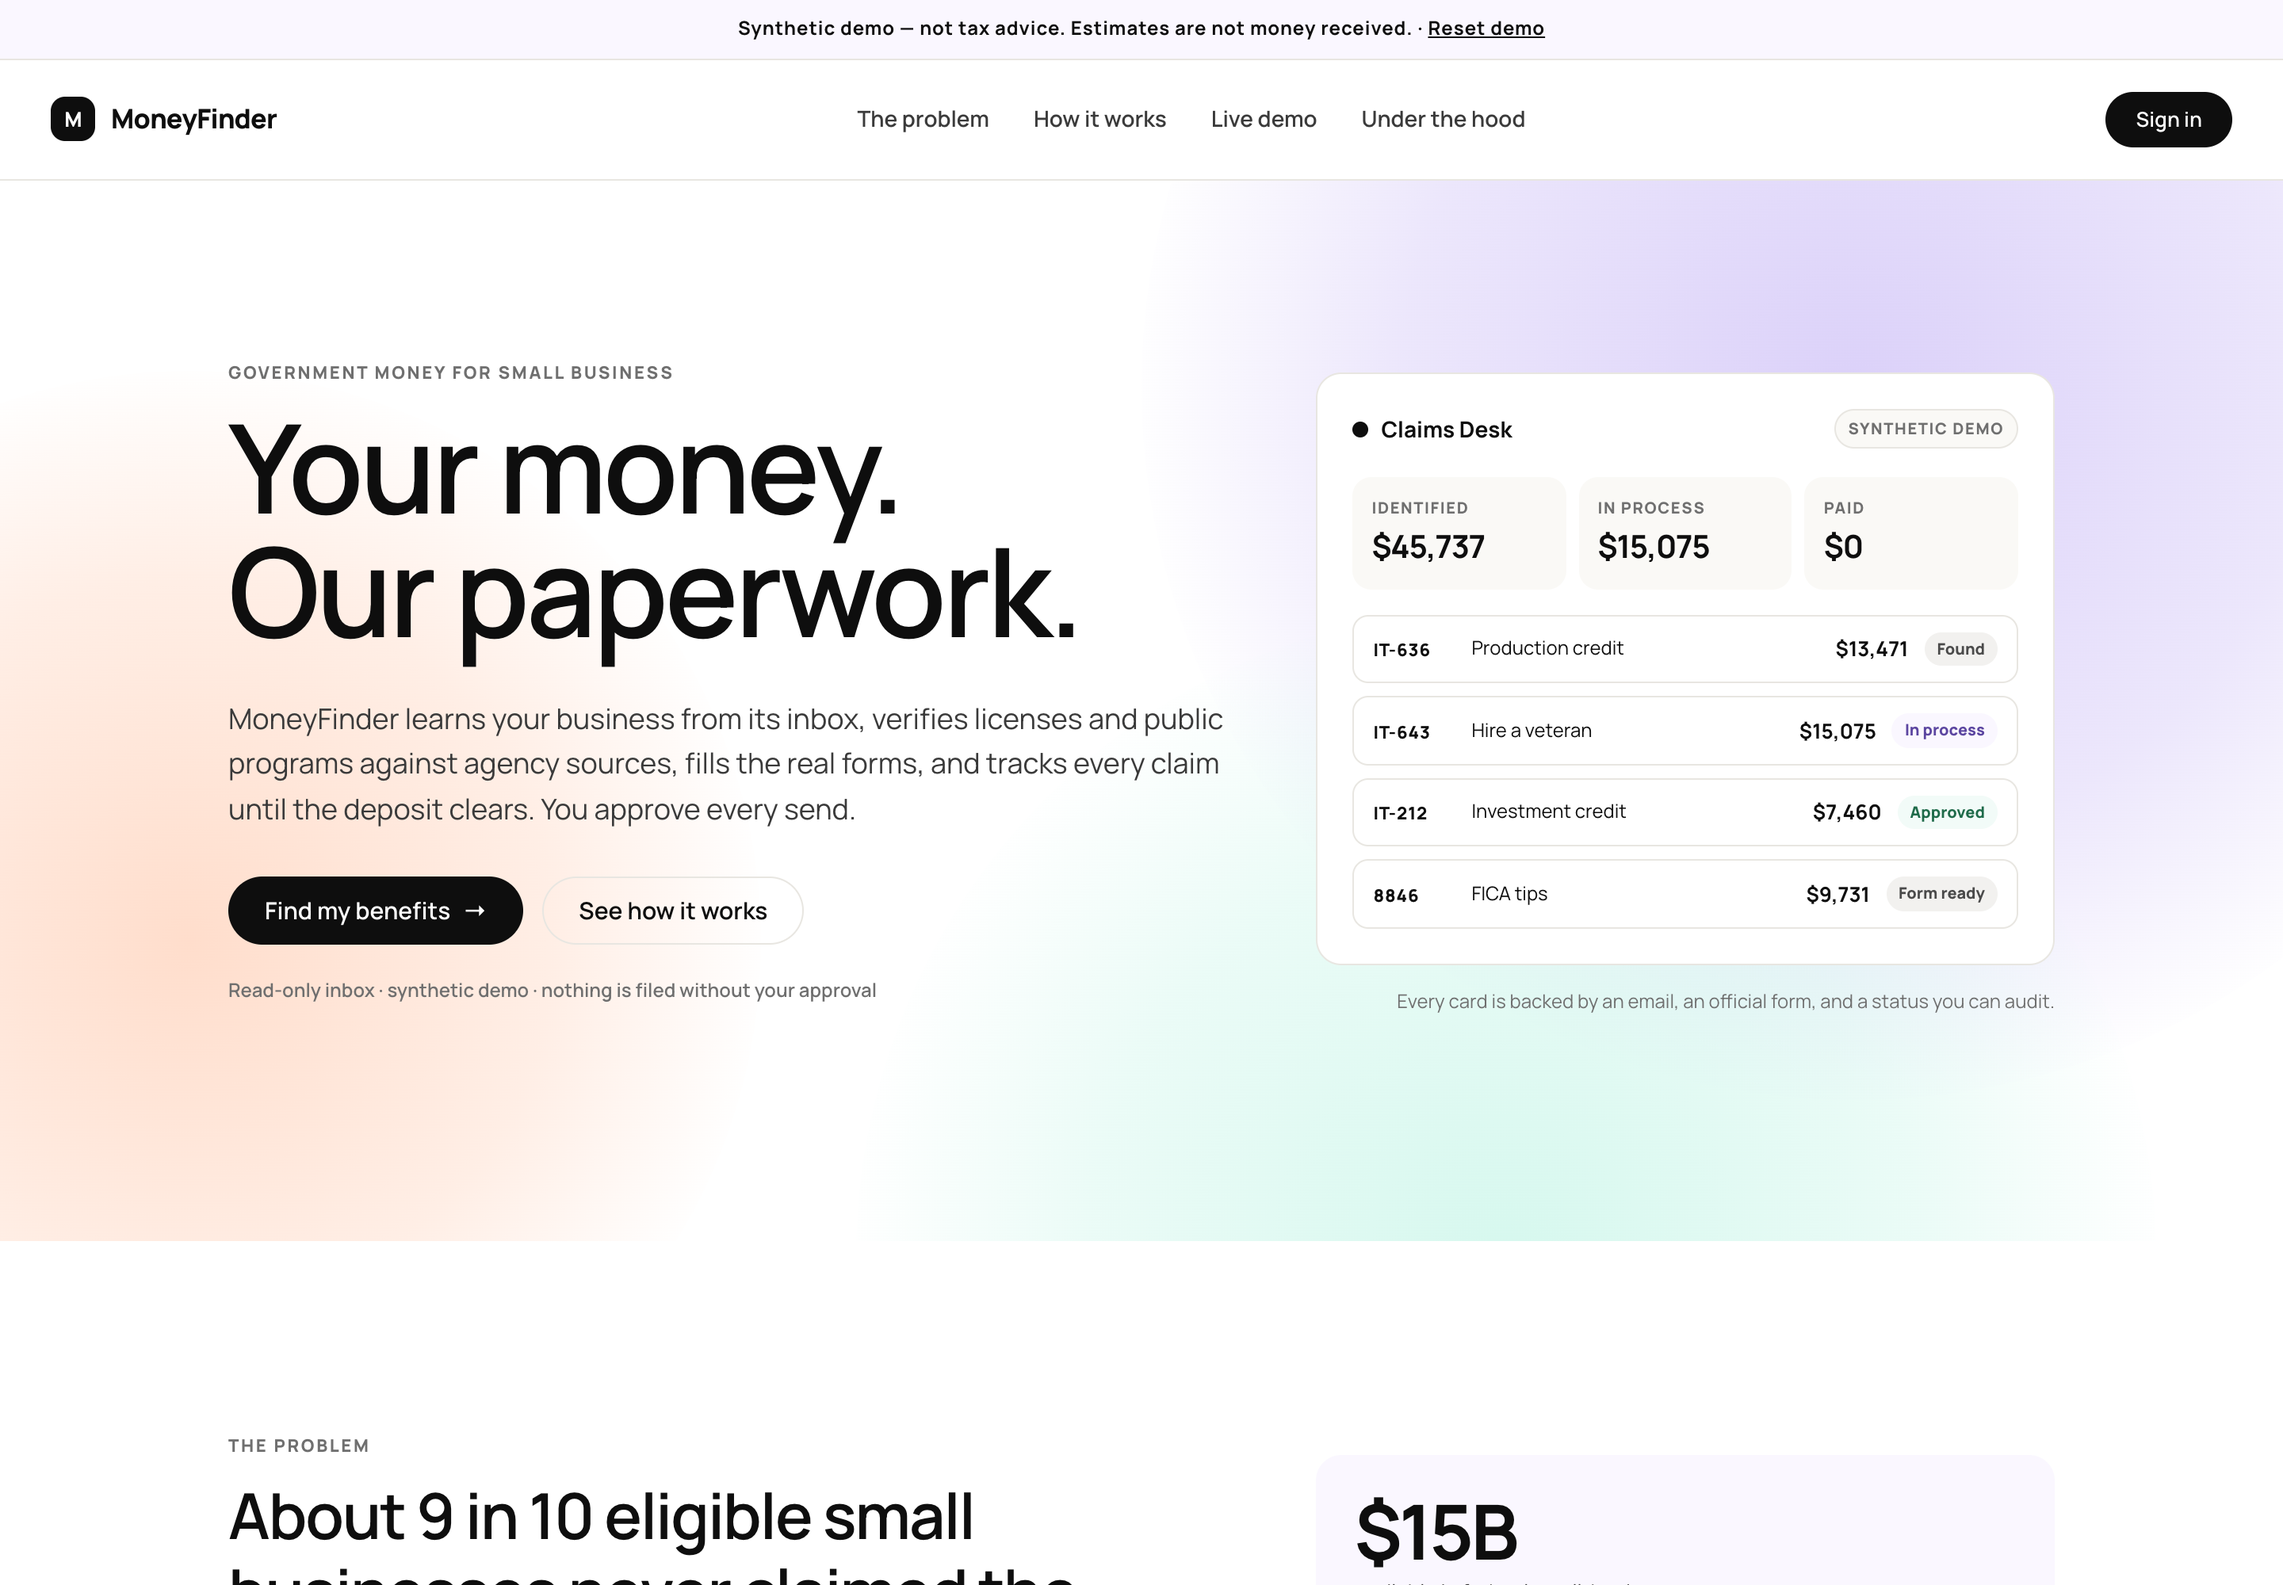
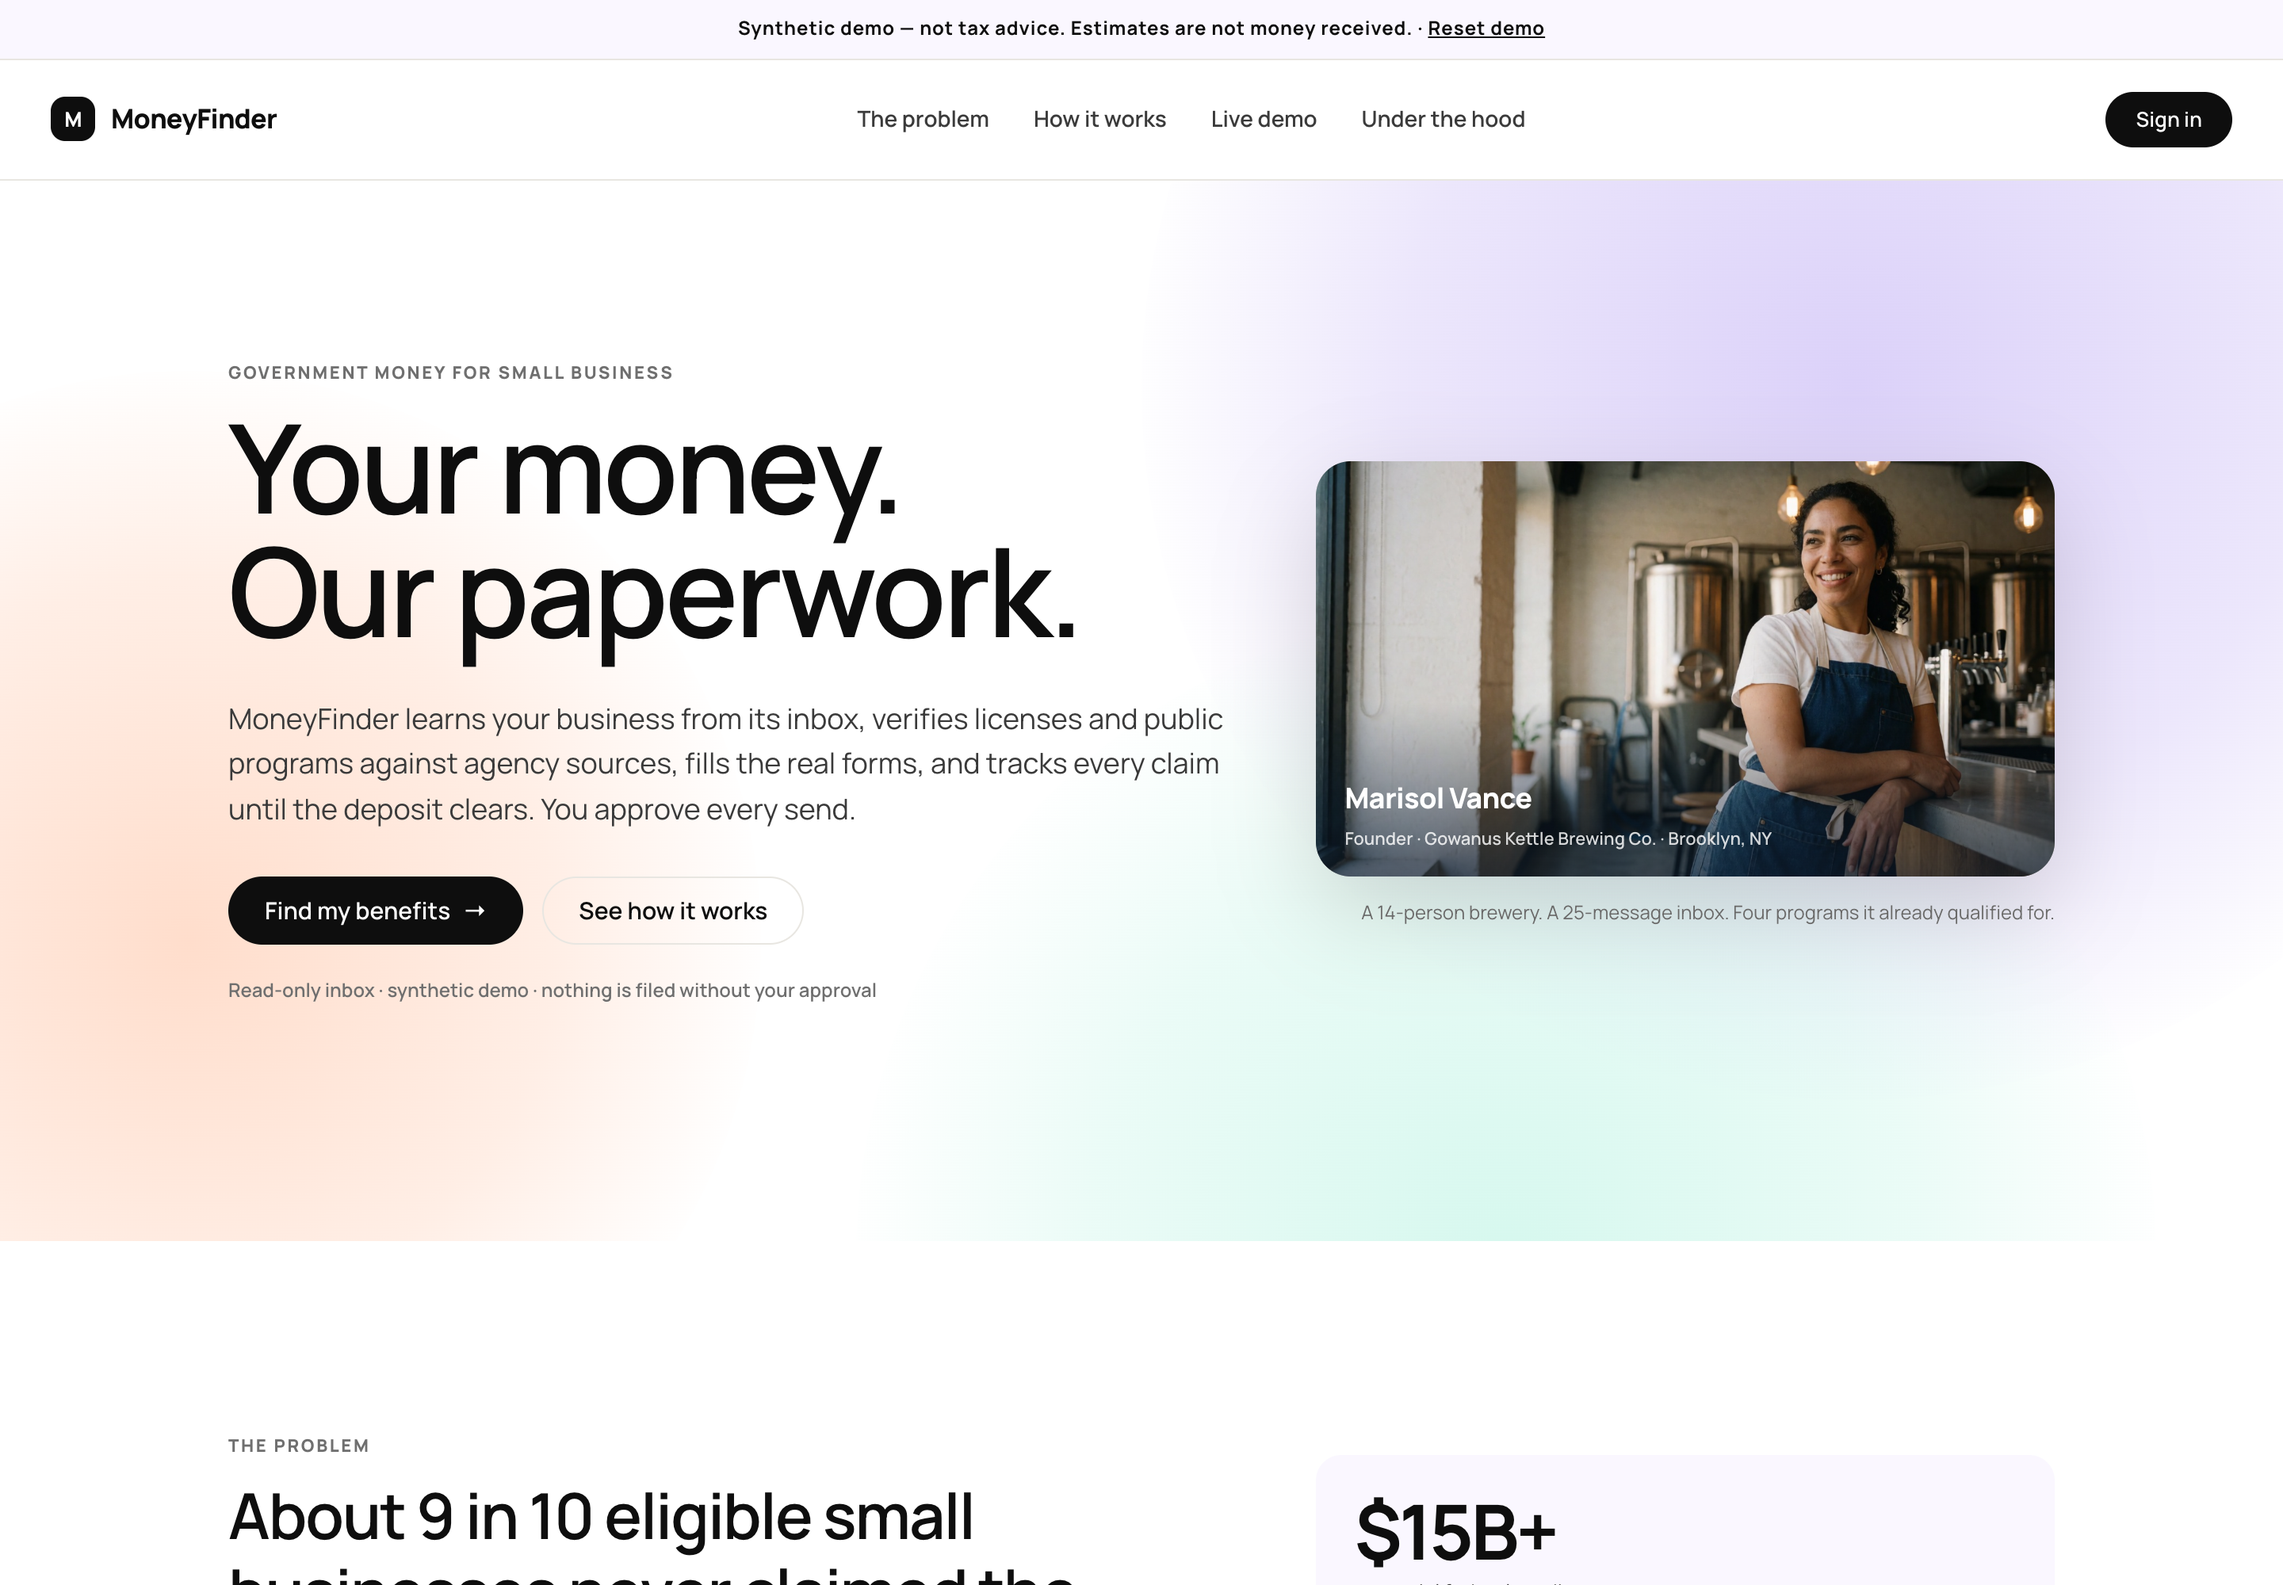
feat(landing): replace claims card with generated Marisol persona hero

Changed region(s): [[0.5625, 0.217, 0.9062, 0.62], [0.6562, 0.961, 0.6875, 0.992]]

diff --git a/app/templates/landing.html b/app/templates/landing.html
@@ -17,21 +17,16 @@
       <p class="trust-line">Read-only inbox · synthetic demo · nothing is filed without your approval</p>
     </div>
     <div class="hero-visual">
-      <div class="mock-panel">
-        <div class="mock-head"><span class="mock-dot"></span><strong>Claims Desk</strong><span class="mock-chip">Synthetic demo</span></div>
-        <div class="mock-stats">
-          <div><span>Identified</span><strong>$45,737</strong></div>
-          <div><span>In process</span><strong>$15,075</strong></div>
-          <div><span>Paid</span><strong>$0</strong></div>
-        </div>
-        <div class="mock-rows">
-          <div class="mock-row"><span class="form">IT-636</span><span>Production credit</span><b>$13,471</b><em class="mini found">Found</em></div>
-          <div class="mock-row"><span class="form">IT-643</span><span>Hire a veteran</span><b>$15,075</b><em class="mini in_process">In process</em></div>
-          <div class="mock-row"><span class="form">IT-212</span><span>Investment credit</span><b>$7,460</b><em class="mini approved">Approved</em></div>
-          <div class="mock-row"><span class="form">8846</span><span>FICA tips</span><b>$9,731</b><em class="mini found">Form ready</em></div>
-        </div>
-      </div>
-      <div class="mock-note">Every card is backed by an email, an official form, and a status you can audit.</div>
+      <figure class="hero-photo">
+        <img src="{{ url_for('static', filename='img/hero-marisol.jpg') }}"
+             alt="Marisol Vance, founder of Gowanus Kettle Brewing Co., standing in her Brooklyn taproom"
+             width="1368" height="768">
+        <figcaption class="hero-photo-caption">
+          <span class="hero-photo-name">Marisol Vance</span>
+          <span class="hero-photo-role">Founder · Gowanus Kettle Brewing Co. · Brooklyn, NY</span>
+        </figcaption>
+      </figure>
+      <p class="mock-note">A 14-person brewery. A 25-message inbox. Four programs it already qualified for.</p>
     </div>
   </div>
 </section>

diff --git a/app/static/css/app.css b/app/static/css/app.css
@@ -638,3 +638,13 @@ select:focus, input:focus { outline: 2px solid var(--ink); outline-offset: 1px; 
 .obs-chip { padding: 2px 5px; border-radius: 999px; background: rgba(43,168,74,.16); color: #8fe0a4; font-size: 9px; text-transform: uppercase; letter-spacing: .04em; }
 .obs-card.collapsed .obs-body { display: none; }
 @media (max-width: 760px) { .obs-card { width: 280px; right: 10px; bottom: 10px; } .obs-body { grid-template-columns: 1fr; } .obs-provider + .obs-provider { border-left: 0; border-top: 1px solid rgba(255,255,255,.1); margin-top: 8px; padding-top: 8px; } }
+
+/* ---------- hero persona photo ---------- */
+.hero-visual { position: relative; }
+.hero-photo { margin: 0; position: relative; border-radius: 22px; overflow: hidden; background: #d9d2c7; box-shadow: 0 22px 60px rgba(37, 30, 20, .16); aspect-ratio: 16 / 9; }
+.hero-photo img { width: 100%; height: 100%; object-fit: cover; display: block; }
+.hero-photo::after { content: ""; position: absolute; inset: auto 0 0 0; height: 42%; background: linear-gradient(to top, rgba(14, 27, 44, .62), transparent); pointer-events: none; }
+.hero-photo-caption { position: absolute; left: 18px; right: 18px; bottom: 16px; z-index: 1; display: flex; flex-direction: column; gap: 2px; color: #fff; }
+.hero-photo-name { font-size: 18px; font-weight: 800; letter-spacing: -.02em; }
+.hero-photo-role { font-size: 11px; font-weight: 600; color: rgba(255,255,255,.82); }
+@media (max-width: 1000px) { .hero-photo { max-width: 640px; } }
